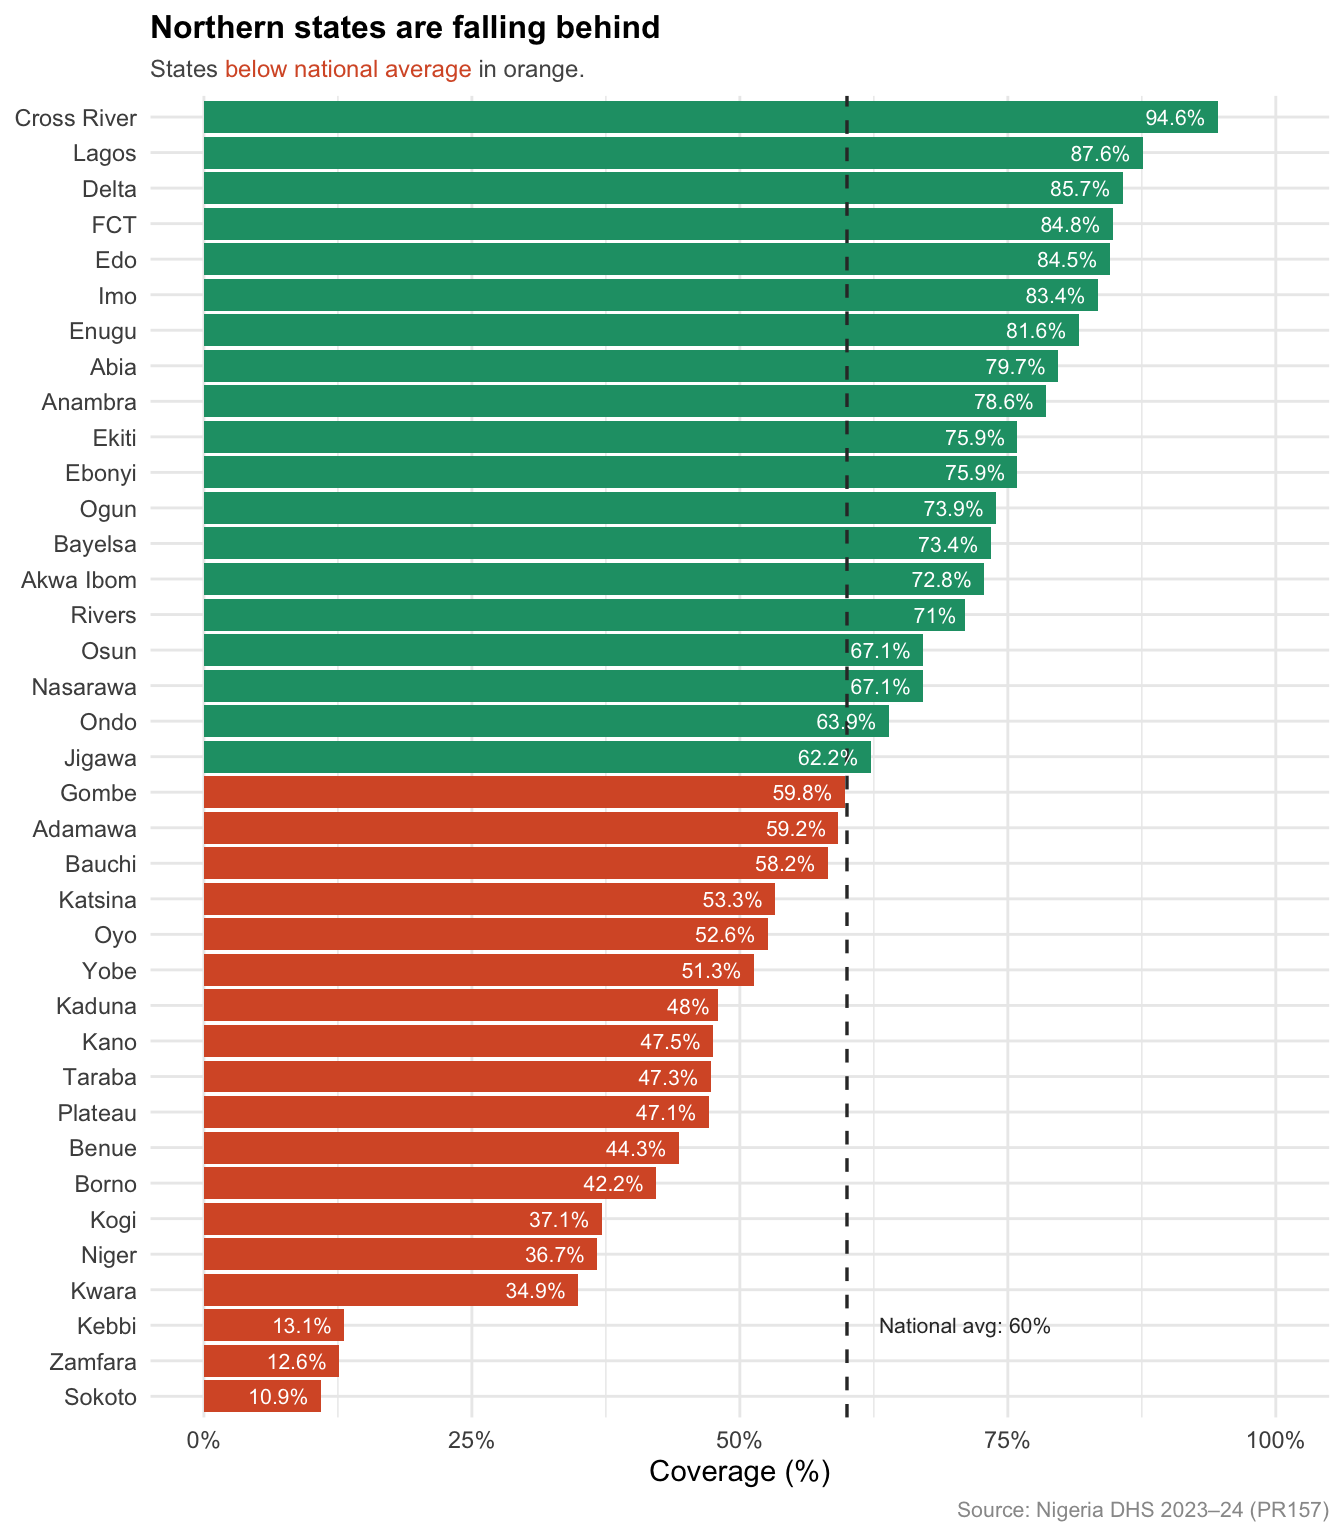
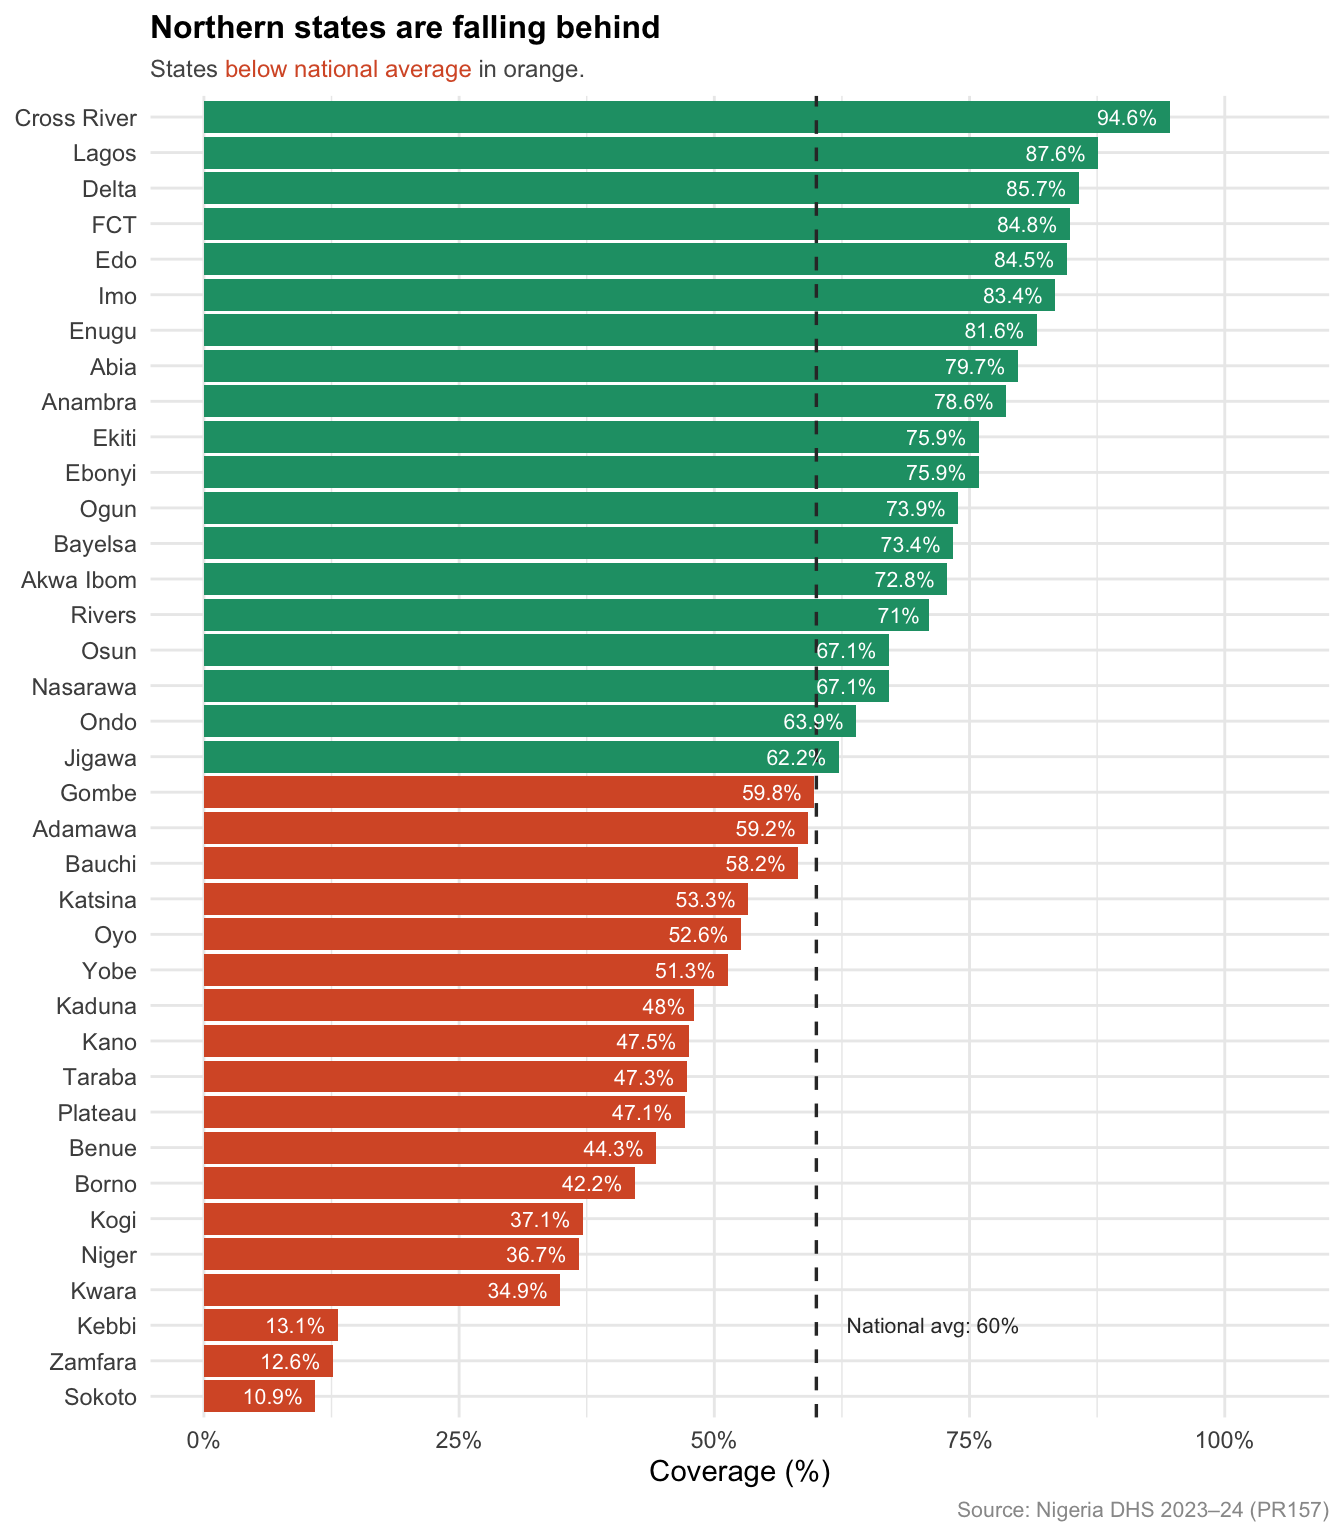
Fix chart layout and titles in Tutorial 1

diff --git a/docs/data-viz-for-policy/01-why-charts-fail-policymakers.html b/docs/data-viz-for-policy/01-why-charts-fail-policymakers.html
@@ -429,7 +429,7 @@ pre > code.sourceCode > span > a:first-child::before { text-decoration: underlin
 <span id="cb13-30"><a href="#cb13-30" aria-hidden="true" tabindex="-1"></a>  ) <span class="sc">+</span></span>
 <span id="cb13-31"><a href="#cb13-31" aria-hidden="true" tabindex="-1"></a>  <span class="fu">scale_y_continuous</span>(</span>
 <span id="cb13-32"><a href="#cb13-32" aria-hidden="true" tabindex="-1"></a>    <span class="at">labels =</span> <span class="fu">label_percent</span>(<span class="at">scale =</span> <span class="dv">1</span>),</span>
-<span id="cb13-33"><a href="#cb13-33" aria-hidden="true" tabindex="-1"></a>    <span class="at">limits =</span> <span class="fu">c</span>(<span class="dv">0</span>, <span class="dv">100</span>)</span>
+<span id="cb13-33"><a href="#cb13-33" aria-hidden="true" tabindex="-1"></a>    <span class="at">limits =</span> <span class="fu">c</span>(<span class="dv">0</span>, <span class="dv">105</span>)</span>
 <span id="cb13-34"><a href="#cb13-34" aria-hidden="true" tabindex="-1"></a>  ) <span class="sc">+</span></span>
 <span id="cb13-35"><a href="#cb13-35" aria-hidden="true" tabindex="-1"></a>  <span class="fu">annotate</span>(</span>
 <span id="cb13-36"><a href="#cb13-36" aria-hidden="true" tabindex="-1"></a>    <span class="at">geom   =</span> <span class="st">"text"</span>,</span>
